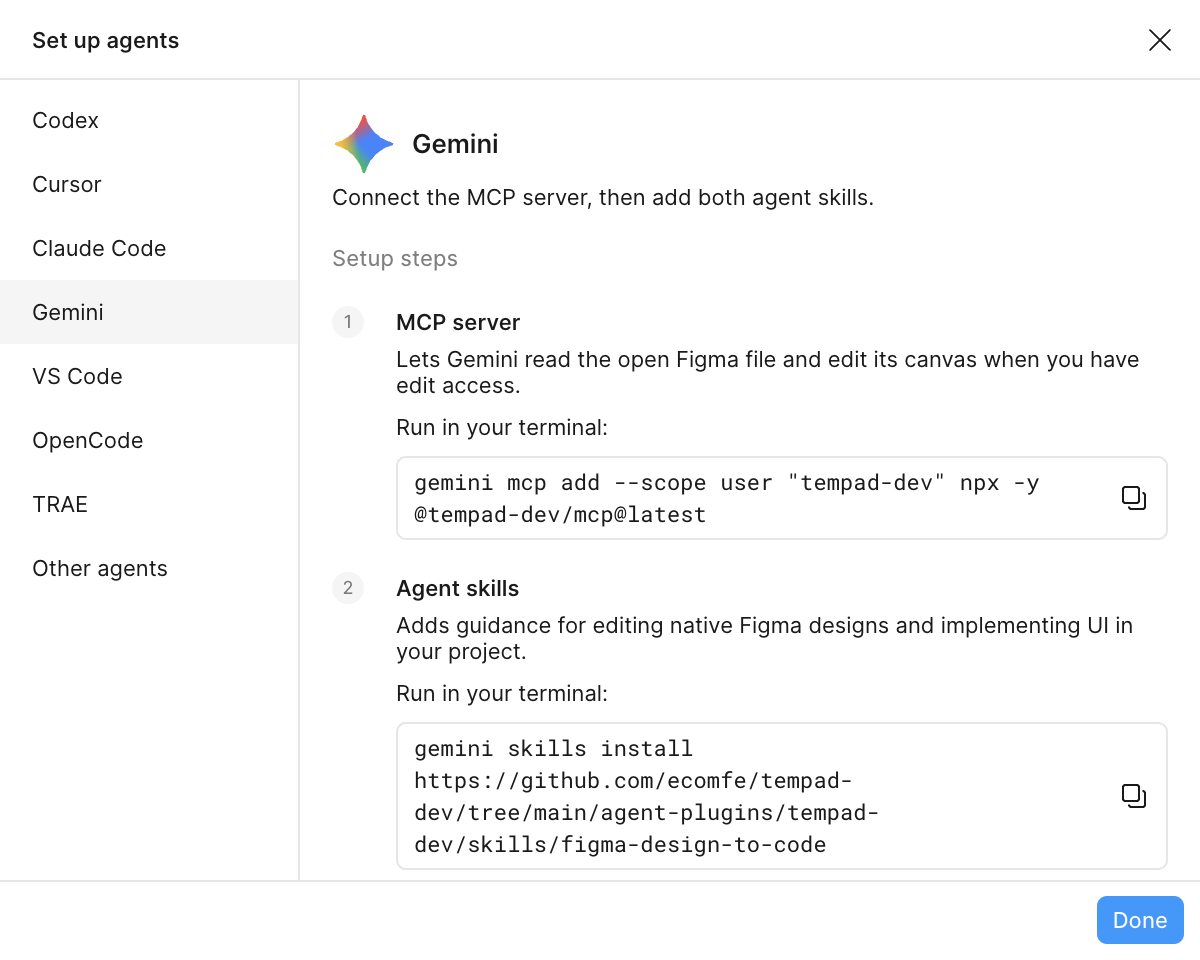
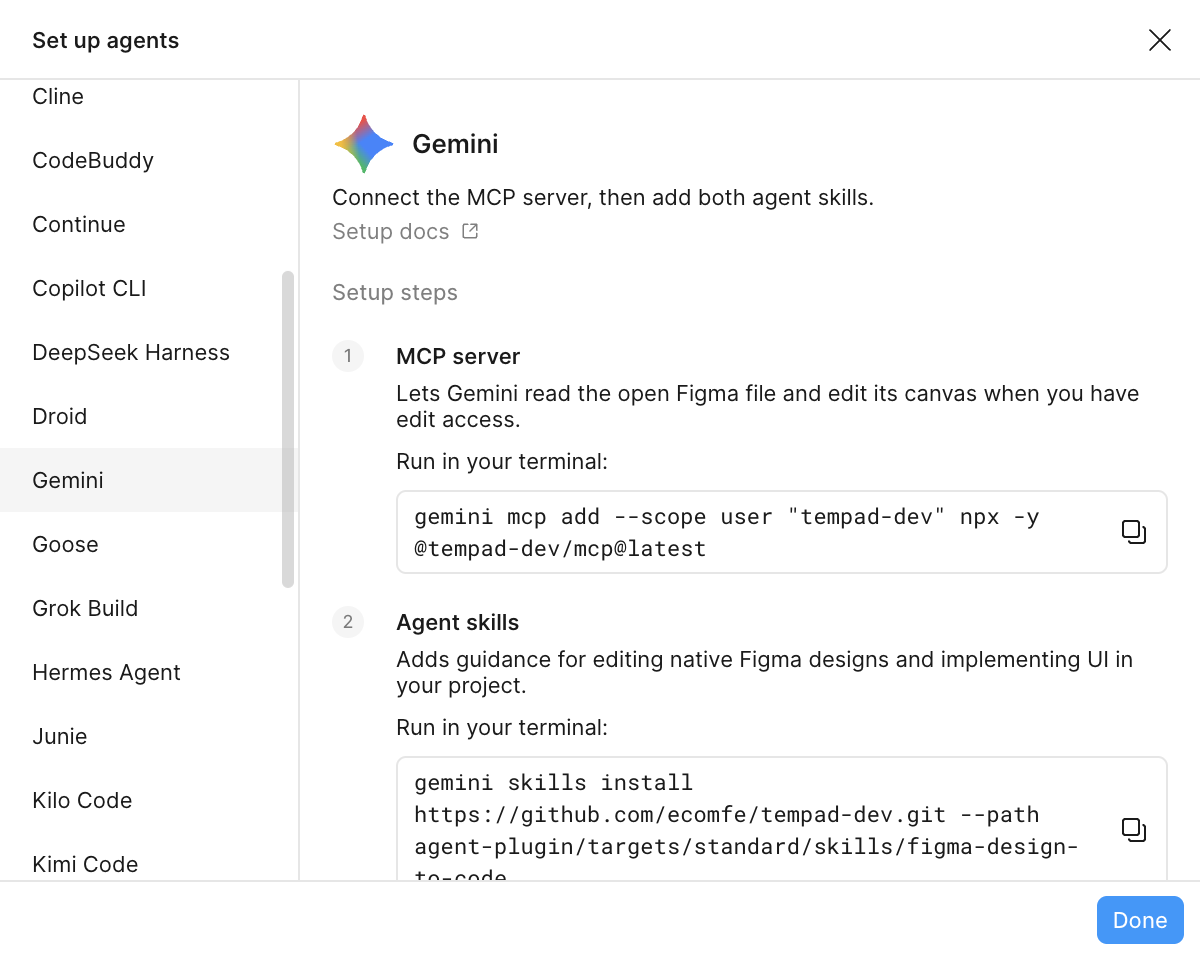
fix(site): refresh setup guidance and presentation metadata

diff --git a/packages/site/index.html b/packages/site/index.html
@@ -4,11 +4,14 @@
     <meta charset="UTF-8" />
     <link rel="icon" type="image/svg+xml" href="/icon.svg" />
     <link rel="apple-touch-icon" href="/icon-128.png" />
+    <link rel="canonical" href="https://tempad.dev/" />
     <link rel="preconnect" href="https://fonts.googleapis.com" />
     <link rel="preconnect" href="https://fonts.gstatic.com" crossorigin />
     <link
-      href="https://fonts.googleapis.com/css2?family=Encode+Sans+Condensed:wght@400;500;600&family=JetBrains+Mono:wght@400;500;700&family=Manrope:wght@400;500;600;700;800&display=swap"
+      href="https://fonts.googleapis.com/css2?family=Encode+Sans+Condensed:wght@400&family=JetBrains+Mono:wght@400;500;700&family=Manrope:wght@400;500;600;700;800&display=swap"
       rel="stylesheet"
+      media="print"
+      onload="this.media = 'all'"
     />
     <meta name="viewport" content="width=device-width, initial-scale=1.0" />
     <meta
@@ -16,6 +19,32 @@
       content="TemPad Dev connects Figma with developers and their coding agents. Inspect designs, edit native Figma layers, and implement UI in your codebase. Free and open source."
     />
     <title>TemPad Dev: Design &amp; dev. Connected.</title>
+    <meta property="og:type" content="website" />
+    <meta property="og:url" content="https://tempad.dev/" />
+    <meta property="og:title" content="TemPad Dev: Design &amp; dev. Connected." />
+    <meta
+      property="og:description"
+      content="Inspect designs, edit native Figma layers, and implement UI with your coding agent. Free and open source."
+    />
+    <meta property="og:image" content="https://tempad.dev/marketing/code-light.png" />
+    <meta property="og:image:type" content="image/png" />
+    <meta property="og:image:width" content="1440" />
+    <meta property="og:image:height" content="960" />
+    <meta
+      property="og:image:alt"
+      content="TemPad Dev showing CSS and JavaScript for a selected Figma frame."
+    />
+    <meta name="twitter:card" content="summary_large_image" />
+    <meta name="twitter:title" content="TemPad Dev: Design &amp; dev. Connected." />
+    <meta
+      name="twitter:description"
+      content="Inspect designs, edit native Figma layers, and implement UI with your coding agent. Free and open source."
+    />
+    <meta name="twitter:image" content="https://tempad.dev/marketing/code-light.png" />
+    <meta
+      name="twitter:image:alt"
+      content="TemPad Dev showing CSS and JavaScript for a selected Figma frame."
+    />
   </head>
 
   <body>

diff --git a/packages/site/tests/reader.browser.test.ts b/packages/site/tests/reader.browser.test.ts
@@ -42,7 +42,7 @@ it.each([1280, 768, 390])(
     window.scrollTo({ top: 500, behavior: 'instant' })
     await expect.poll(() => window.scrollY).toBe(500)
     await page
-      .getByRole('button', { name: /Read the canvas skill/ })
+      .getByRole('button', { name: /Read the Design in Figma skill/ })
       .first()
       .click()
     await expect.poll(() => element<HTMLDialogElement>('.site-skill-dialog').open).toBe(true)
@@ -172,7 +172,7 @@ it.each([1280, 768, 390])(
 
     for (const withFileOptions of [false, true]) {
       await page
-        .getByRole('button', { name: /Read the canvas skill/ })
+        .getByRole('button', { name: /Read the Design in Figma skill/ })
         .first()
         .click()
       if (withFileOptions) await page.getByRole('combobox', { name: /^Files/ }).click()

diff --git a/packages/site/src/components/SkillLink.vue b/packages/site/src/components/SkillLink.vue
@@ -9,7 +9,7 @@ defineProps<{ skill: SiteSkill }>()
 <template>
   <button type="button" class="site-text-link site-skill-link" aria-haspopup="dialog">
     <BookOpen aria-hidden="true" />
-    <span>Read the {{ skill === 'canvas' ? 'canvas' : 'design-to-code' }} skill</span>
+    <span>Read the {{ skill === 'canvas' ? 'Design in Figma' : 'design-to-code' }} skill</span>
   </button>
 </template>
 

diff --git a/docs/marketing-screenshots.md b/docs/marketing-screenshots.md
@@ -56,7 +56,7 @@ becomes `720 × 320`.
 | `measure`                  | Inner frame selected, Measure active, outer frame under the pointer, orange target outline and four `20` distance labels.         |
 | `scroll`                   | Frame selected in the native code view, arrow pointer hovering Scroll Into View with its tooltip visible.                         |
 | `plugins`                  | Real Kong Button instance selected with Figma's purple instance highlight and Kong UI-specific output; pointer hidden.            |
-| `mcp-config-gemini`        | Gemini selected, content scrolled to the top, MCP command and first skill command fully visible.                                  |
+| `mcp-config-gemini`        | Gemini selected, content scrolled to the top, complete MCP command and introduction to the skill installation step visible.       |
 | `mcp-config-gemini-skills` | Gemini selected, content scrolled to the bottom, both standalone skill commands fully visible.                                    |
 | `mcp-unavailable`          | Preferences visible with the gray-dot, dashed MCP badge.                                                                          |
 | `mcp-inactive`             | Preferences visible with the green-dot, dashed MCP badge.                                                                         |
@@ -238,6 +238,11 @@ pnpm screenshots verify
 
 11. For fixture-based captures, always restore Figma through `Preferences → Theme → Light` and call
     `__TEMPAD_README_SCREENSHOTS__.setCanvasTheme('light')` before handing the tab back.
+
+Before subsequent MCP authoring or live regression work, stop browser automation and request a
+manual full Figma tab reload. Browser-use instrumentation can interfere with the plugin sandbox
+even after screenshot overrides are removed. Recheck the runtime and native MCP transport using
+[the authoring runbook](testing/agent-authoring-evolution.md) before continuing.
 
 ## Stability rules
 

diff --git a/packages/site/README.md b/packages/site/README.md
@@ -6,7 +6,12 @@ Vue 3 + Vite app for the Tempad Dev landing page.
 
 - `pnpm dev`
 - `pnpm build`
+- `pnpm preview`
 - `pnpm typecheck`
 - `pnpm lint`
 - `pnpm lint:fix`
 - `pnpm format`
+- `pnpm format:check`
+- `pnpm test:run` (node and Playwright browser tests)
+- `pnpm test:browser`
+- `pnpm test:setup` (install Chromium before the first browser test run)
